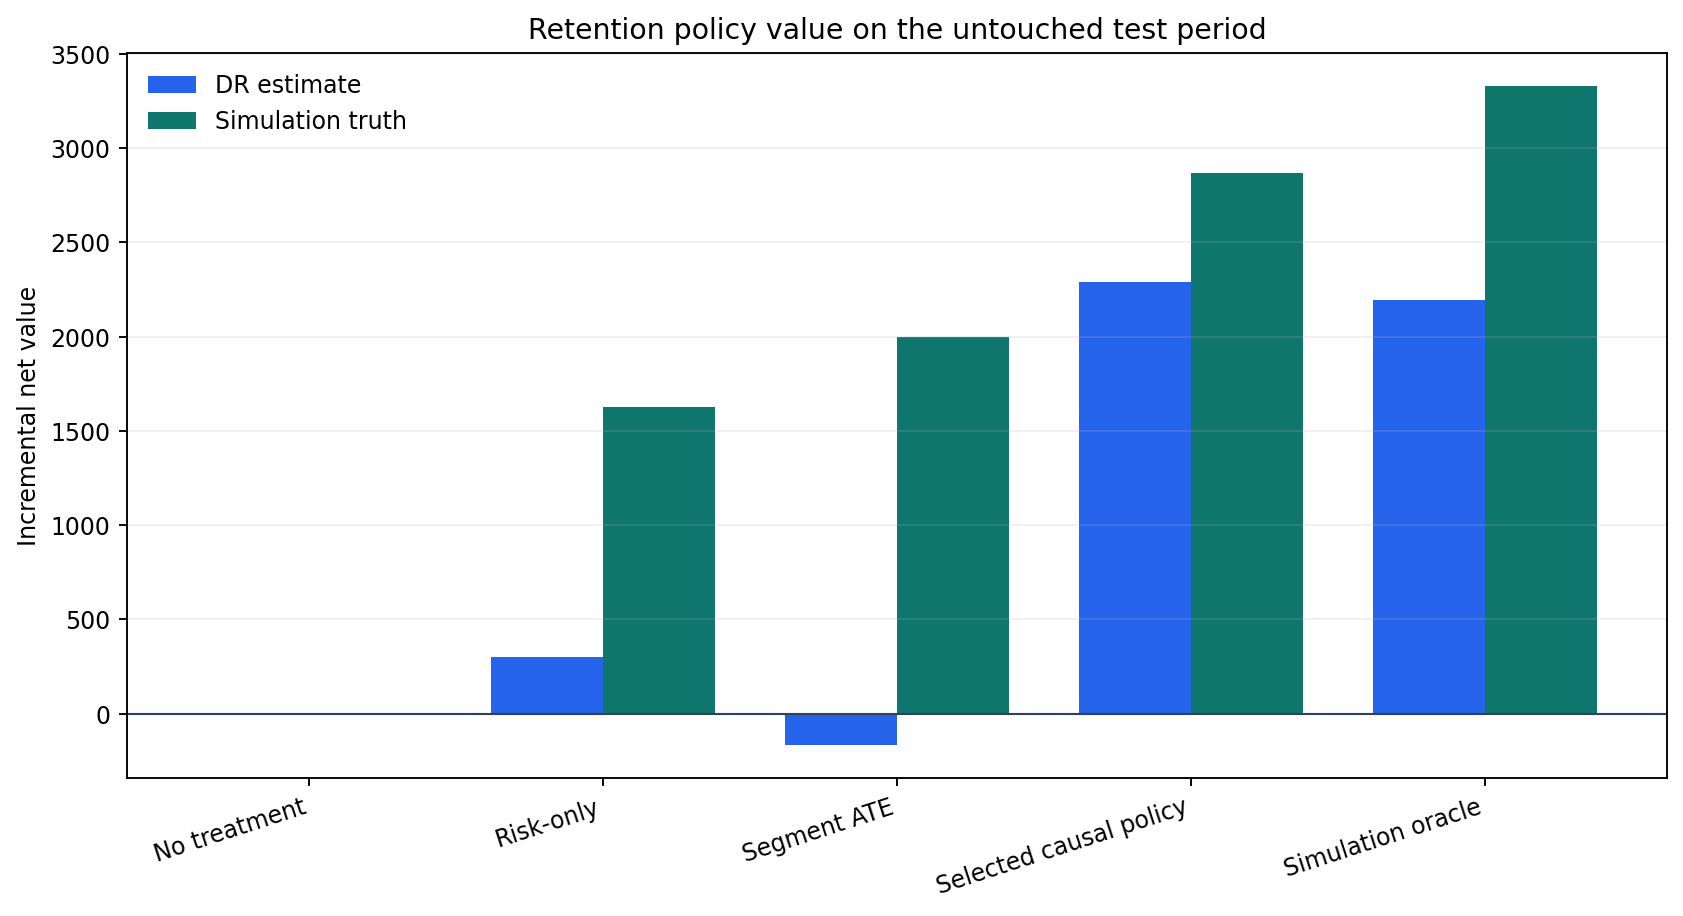
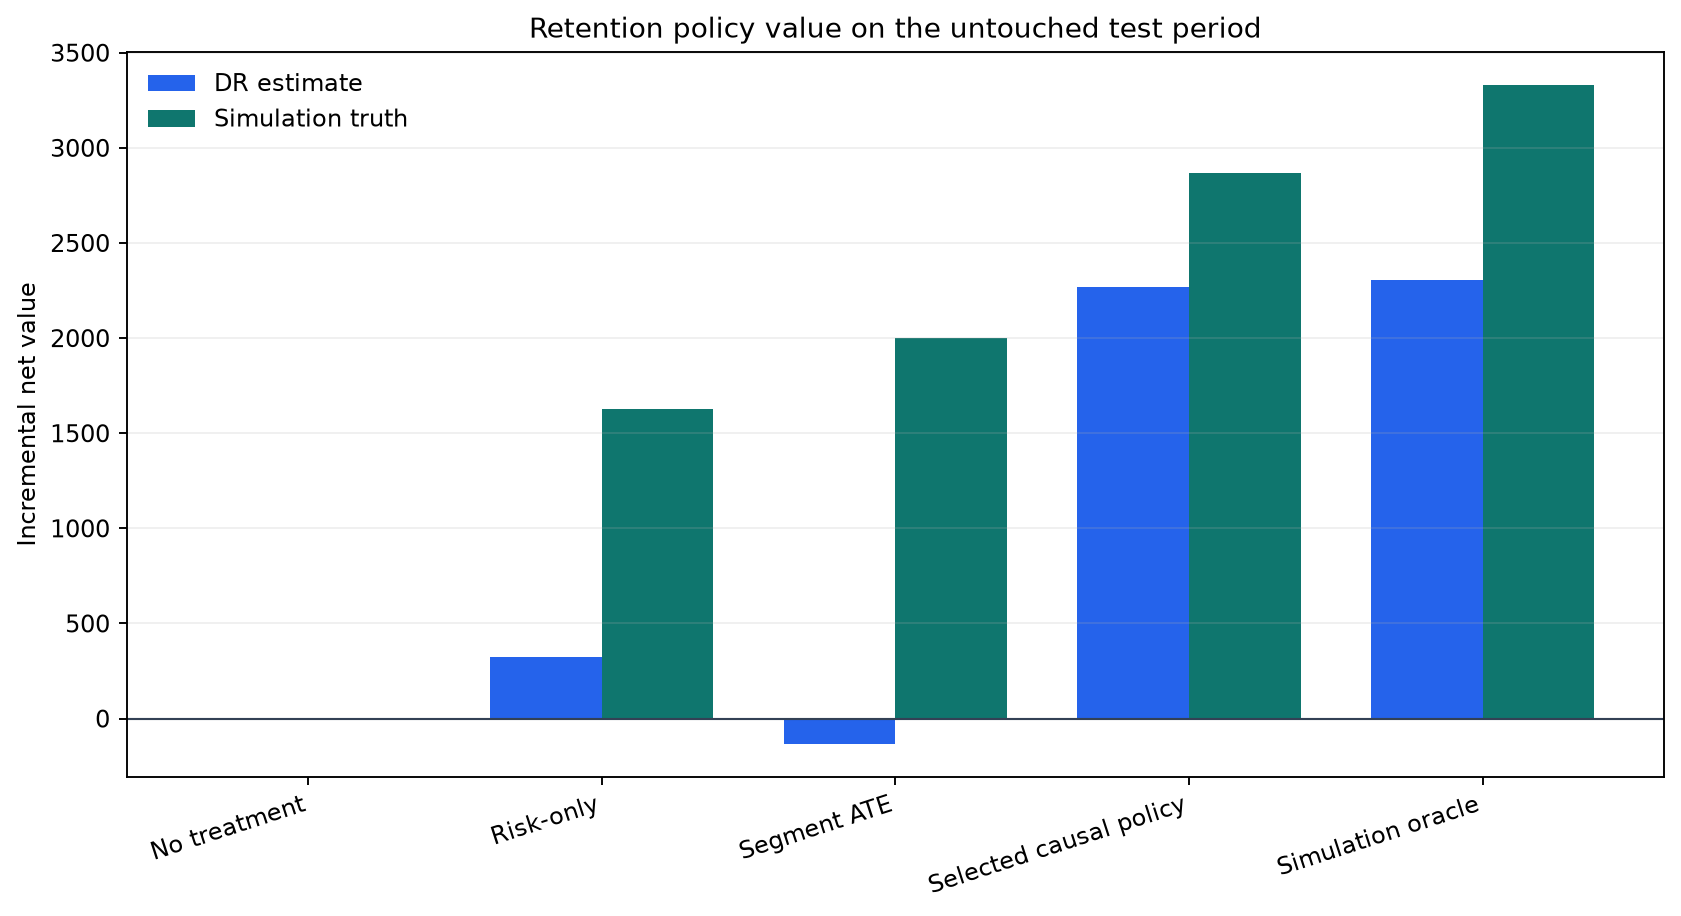
Pin reproducible retention evidence runs
* Pin reproducible retention evidence runs

* Align pinned retention runtime with Python 3.12

diff --git a/tests/test_pipeline.py b/tests/test_pipeline.py
@@ -35,6 +35,15 @@ class PipelineTests(unittest.TestCase):
             self.assertTrue((root / "reports" / "figures" / "qini_curves.png").exists())
             self.assertTrue((root / "data" / "sample" / "synthetic_policy_sample.csv").exists())
 
+            with tempfile.TemporaryDirectory() as second_directory:
+                second_root = Path(second_directory)
+                second_metrics = run_pipeline(second_root, config)
+                self.assertEqual(metrics, second_metrics)
+                self.assertEqual(
+                    (root / "reports" / "model_comparison.csv").read_bytes(),
+                    (second_root / "reports" / "model_comparison.csv").read_bytes(),
+                )
+
 
 if __name__ == "__main__":
     unittest.main()

diff --git a/src/retention_uplift/cli.py b/src/retention_uplift/cli.py
@@ -15,7 +15,12 @@ def build_parser() -> argparse.ArgumentParser:
     parser = argparse.ArgumentParser(
         description="Run the synthetic retention pipeline or external Criteo validation."
     )
-    parser.add_argument("--project-root", type=Path, default=Path.cwd())
+    parser.add_argument(
+        "--project-root",
+        type=Path,
+        default=Path("local-runs/latest"),
+        help="Output root; defaults to an ignored local-run directory.",
+    )
     parser.add_argument("--customers", type=int, default=None)
     parser.add_argument("--seed", type=int, default=42)
     parser.add_argument(

diff --git a/scripts/check_sensitive.py b/scripts/check_sensitive.py
@@ -7,7 +7,7 @@ from pathlib import Path
 
 ROOT = Path(__file__).resolve().parents[1]
 TEXT_SUFFIXES = {".csv", ".json", ".md", ".py", ".toml", ".txt", ".yml", ".yaml"}
-EXCLUDED_PARTS = {".git", ".venv", "__pycache__", "generated"}
+EXCLUDED_PARTS = {".git", ".venv", "__pycache__", "generated", "local-runs"}
 EXCLUDED_FILES = {Path(__file__).resolve()}
 
 SENSITIVE_PATTERNS = {

diff --git a/README.md b/README.md
@@ -1,7 +1,7 @@
 # Retention Treatment Uplift & Policy Optimization
 
 [![CI](https://github.com/parisaMSTFV/retention-treatment-uplift/actions/workflows/ci.yml/badge.svg)](https://github.com/parisaMSTFV/retention-treatment-uplift/actions/workflows/ci.yml)
-[![Python](https://img.shields.io/badge/Python-3.11%20%7C%203.12-3776AB)](https://www.python.org/)
+[![Python](https://img.shields.io/badge/Python-3.12-3776AB)](https://www.python.org/)
 [![Evidence](https://img.shields.io/badge/evidence-synthetic%20%2B%20public%20randomized%20benchmark-0F766E)](DATA_PROVENANCE.md)
 
 A churn score estimates who may leave. This project asks the next decision question: **which
@@ -40,7 +40,7 @@ See the [external run summary](reports/external_validation/run_summary.md),
 |---|---|
 | **Who** | 727 of 2,943 test customers receive an active treatment after value and operating constraints are applied; 2,216 receive no treatment. |
 | **Which action** | 647 reminders, 56 vouchers, and 24 service calls. |
-| **Net value** | Doubly robust estimate: **2,291** with a **95% CI of 405 to 4,177**; simulation truth: **2,870**, or **76.2% above risk-only targeting**. |
+| **Net value** | Doubly robust estimate: **2,270** with a **95% CI of 392 to 4,148**; simulation truth: **2,870**, or **76.2% above risk-only targeting**. |
 
 The interval is positive but wide, so the estimate does not support automatic deployment. The
 candidate policy requires a prospective randomized test with the same cost and capacity rules.
@@ -51,12 +51,13 @@ candidate policy requires a prospective randomized test with the same cost and c
 
 ```bash
 python -m pip install -e ".[dev]"
-retention-uplift --project-root .
+retention-uplift --project-root local-runs/latest
 make check
 ```
 
-The run regenerates the synthetic experiment, policy outputs, diagnostics, and figures. Row-level
-data and hidden potential outcomes remain excluded from Git.
+The run regenerates the synthetic experiment, policy outputs, diagnostics, and figures under
+the ignored `local-runs/latest` directory. Row-level data and hidden potential outcomes remain
+excluded from Git.
 
 ### Reproduce the external validation
 
@@ -71,7 +72,7 @@ retention-uplift \
   --external-sample-size 300000 \
   --external-target-share 0.30 \
   --seed 42 \
-  --project-root .
+  --project-root local-runs/criteo
 ```
 
 The command verifies the exact official checksum and row count, validates the complete source,
@@ -130,9 +131,9 @@ it did not improve the decision metric.
 
 | Validation model | DR policy value | 95% interval | Selected |
 |---|---:|---:|:---:|
-| T-learner linear | 3,889 | 2,135 to 5,642 | Yes |
-| DR-learner hist | 2,569 | 406 to 4,733 | No |
-| T-learner hist | 1,862 | -214 to 3,938 | No |
+| T-learner linear | 3,911 | 2,135 to 5,688 | Yes |
+| DR-learner hist | 2,997 | 854 to 5,141 | No |
+| T-learner hist | 2,829 | 717 to 4,940 | No |
 
 ## From uplift scores to an operating policy
 
@@ -213,7 +214,7 @@ tests/                  randomization, leakage, contract, checksum, policy, and 
 docs/                   external-data contract, analysis plan, metrics, model card, interview guide
 reports/                synthetic decision run plus aggregate external-validation evidence
 scripts/                verified external downloader and public-file sensitive-content check
-.github/workflows/      CI on Python 3.11 and 3.12
+.github/workflows/      CI on Python 3.12
 ```
 
 The row-level synthetic experiment and hidden potential outcomes are regenerated locally and
@@ -221,7 +222,7 @@ excluded from Git. Only a 30-row synthetic policy sample and aggregate outputs a
 
 ## Environment setup
 
-The Quick Start assumes Python 3.11 or later. To isolate the dependencies first:
+The Quick Start requires Python 3.12. To isolate the dependencies first:
 
 ```bash
 python -m venv .venv

diff --git a/reports/run_summary.md b/reports/run_summary.md
@@ -18,8 +18,8 @@ validation period. The selected estimator was **T-learner linear**.
 
 The selected causal policy generated **2,870** synthetic
 currency units of true incremental net value. Its doubly robust estimate was
-**2,291**, with a 95% interval from
-**405** to **4,177**.
+**2,270**, with a 95% interval from
+**392** to **4,148**.
 
 Compared with risk-only targeting, the selected policy improved true incremental value by
 **76.2%**. Its regret versus the simulation-only oracle was
@@ -39,6 +39,6 @@ test, not a claim that historical estimates automatically transport to a new ope
 
 | model | validation_dr_value | validation_ci_low | validation_ci_high | mean_effect_rmse_simulation_only | selected |
 | --- | --- | --- | --- | --- | --- |
-| T-learner linear | 3888.662 | 2135.370 | 5641.953 | 1.673 | True |
-| DR-learner hist | 2569.410 | 406.313 | 4732.507 | 2.803 | False |
-| T-learner hist | 1862.299 | -213.681 | 3938.279 | 3.724 | False |
+| T-learner linear | 3911.476 | 2134.996 | 5687.956 | 1.673 | True |
+| DR-learner hist | 2997.256 | 853.836 | 5140.676 | 2.727 | False |
+| T-learner hist | 2828.555 | 716.878 | 4940.233 | 3.726 | False |
